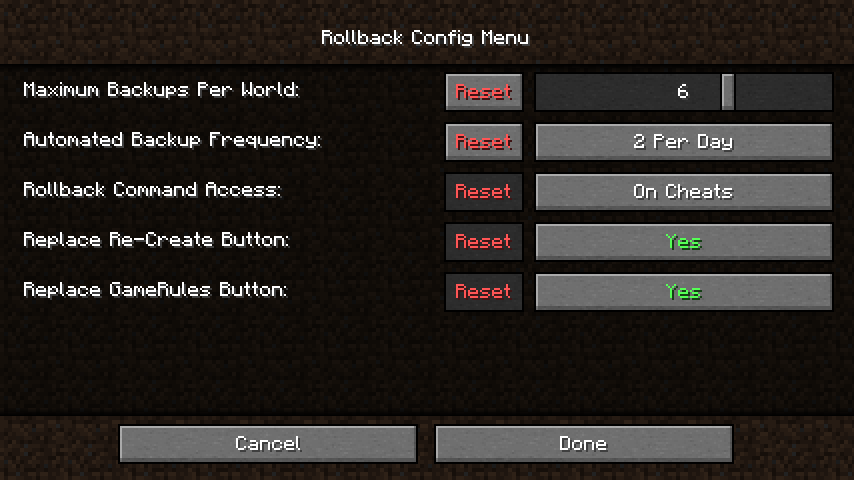
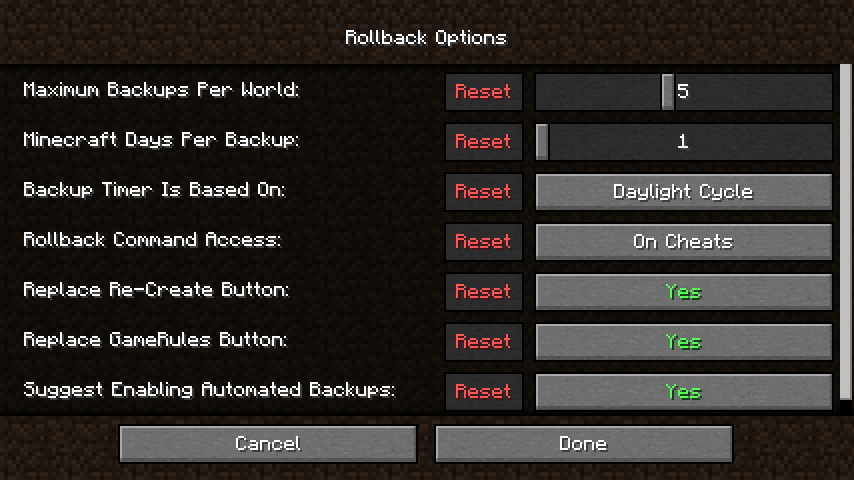
Bumped up the version to 0.5.0

diff --git a/README.md b/README.md
@@ -1,16 +1,11 @@
 # Rollback
-This Minecraft mod will take automatic backups of your single-player world and will allow you to rollback to them using the GUI. <br>
+This Minecraft mod will take automatic backups of your single-player world and will allow you to roll back to them using the GUI. <br>
 **Currently at pre-release state**
 
 ### Screenshots
 ![Rollback Screen](https://raw.githubusercontent.com/MehradN/Rollback/master/screenshots/RollbackScreen.png)
 
 Check out the [Gallery](https://github.com/MehradN/Rollback/tree/master/screenshots) for more screenshots and explanations about navigating and using the mod.
-
-### Automated Backup Frequency: What's the difference between "X Per Day" and "X Minutes"?
-The "X Per Day" is based on the daylight cycle. For example, the "2 Per Day" option will take backups only at 6:00 and 18:00 (in-game time). However, this means that a backup can be skipped by beds and commands. The mod has a cap on the minimum amount of real-time that should've passed since the last backup (which is 10/X minutes) so useless backups won't be created.
-
-The "X Minutes" however is a strict timing. It will take a backup exactly every X minutes, regardless of the daylight cycle. This option is better for the worlds that have the daylight cycle disabled or if you are using a mod that alters the daylight cycle or if you just want reliable and strict timing.
 
 ### Command
 #### /rollback list
